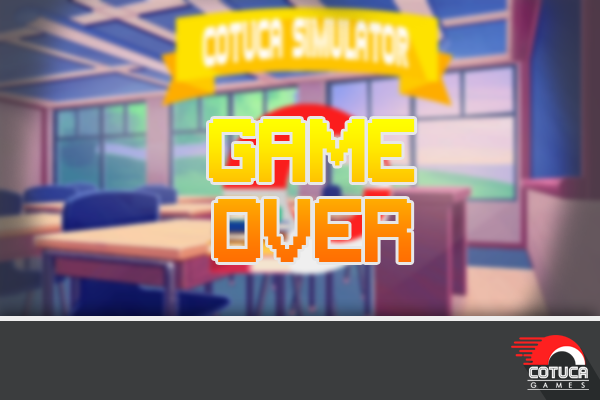
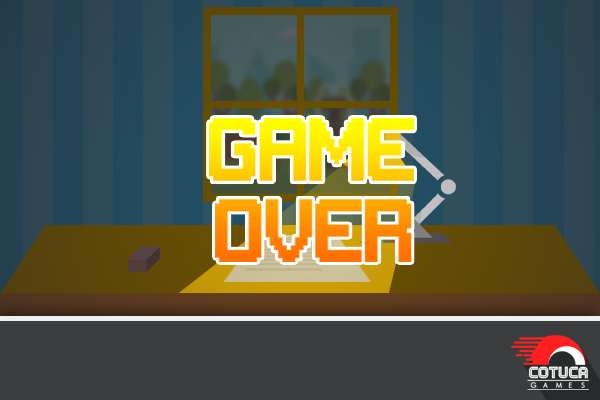
Cotuca Simulator v2.0
- Alteração no Design;
- Itens adicionados (lápis, trabalho surpresa, dp);
- Removida a permissão de selecionar textos do usuário (caixa azul);

diff --git a/css/cotuca-simulator.css b/css/cotuca-simulator.css
@@ -1,79 +1,113 @@
-	#Nivel{
-		position    : absolute;
-		top         :10px; 
-		left        : 195px; 
-		font-family : Century Gothic; 
-		font-size   : 18pt;
-	}
+@font-face{
+	font-family : 'Gameplay'; 
+	src         : url('../fonts/Gameplay.ttf');
+}
 
-	#btnEstudar{
-		width            : 200px; 
-		height           : 50px; 
-		position         : absolute; 
-		top              : 80px; 
-		left             : 200px;
-		border-radius    : 25px;
-		font-family      : Century Gothic;
-		font-size        : 18pt;
-		background-image : linear-gradient(black, #2f2f2f);
-		border-style     : none;
-		color            : white;   
-	}
+#Nivel{
+	position    : absolute;
+	top         : 0px; 
+	left        : 15px; 
+	font-family : 'Gameplay'; 
+	font-size   : 14pt;
+	color       : white; 
+	user-select : none; 
+}
 
-	#btnTrabalho{
-		border-radius    : 15px;
-		font-family      : Century Gothic;
-		font-size        : 10pt;
-		background-image : linear-gradient(#920303, #c93131);
-		border-style     : none;
-		color            : white;   
-		visibility       : hidden; 
-		width            : 80px; 
-		height           : 50px; 
-		position         : absolute;
-	}
+#btnEstudar{
+	width            : 50px; 
+	height           : 200px; 
+	position         : absolute; 
+	top              : 135px; 
+	left             : 280px;
+	font-family      : Century Gothic;
+	font-size        : 18pt;
+	border-style     : none;
+	color            : white;  
+	outline          : none;
+	transform        : rotate(20deg);
+	user-select      : none;    
+}
 
-	#myProgress{
-		border-radius    : 25px;
-		width            : 500px; 
-		position         : absolute; 
-		top              : 320px; 
-		left             : 50px; 
-		background-color : grey;   
-	}
+#btnEstudar:hover{
+	animation                 : shake 2s;
+    animation-iteration-count : infinite;
+    cursor                    : pointer;
+}
 
-	#barra{
-		border-radius    : 25px; 
-		background-image : linear-gradient(#36900a, #6de334);
-		height           : 50px; 
-		width            : 0%; 
-	}
+#btnTrabalho{
+	border-style     : none;
+	color            : white;   
+	visibility       : hidden; 
+	width            : 90px; 
+	height           : 120px; 
+	position         : absolute;  
+	outline          : none;
+	user-select      : none; 
+}
 
-	#Prova{
-		font-family : Century Gothic; 
-		position    : absolute; 
-		top         : 250px; 
-		left        : 50px;
-	}
+#btnTrabalho:hover{
+	transform  : scale(1.025);
+	cursor     : pointer;   
+}
 
-	#PDf{
-		font-family : Century Gothic; 
-		position    : absolute; 
-		top         : 270px; 
-		left        : 50px;
-	}
+#myProgress{
+	border-radius    : 25px;
+	width            : 500px; 
+	position         : absolute; 
+	top              : 65px; 
+	left             : 50px; 
+	background-color : grey;   
+}
 
-	#btnDp, #btnDp2, #btnDp3{
-		border-radius : 15px;
-		font-family   : Century Gothic;
-		border-style  : none;   
-		visibility    : hidden; 
-		width         : 40px; 
-		height        : 30px; 
-		position      : absolute;
-	}
+#barra{
+	border-radius    : 25px; 
+	background-image : linear-gradient(#36900a, #6de334);
+	height           : 25px; 
+	width            : 0%; 
+}
 
-	#btnEstudar:hover,
-	#btnTrabalho:hover{
-		transform : scale(1.05); 
-	}
+#Prova{
+	font-family : 'Gameplay';
+	font-size   : 8pt;
+	font-weight : bold; 
+	color       : white;  
+	position    : absolute; 
+	top         : 10px; 
+	right       : 15px;
+	user-select : none; 
+}
+
+#PDf{
+	font-family : 'Gameplay';
+	font-size   : 10pt;
+	font-weight : bold; 
+	color       : white;  
+	position    : absolute; 
+	top         : 25px; 
+	right       : 15px;
+	user-select : none; 
+}
+
+#btnDp, #btnDp2, #btnDp3{
+	border-style  : none;   
+	visibility    : hidden; 
+	width         : 60px; 
+	height        : 80px; 
+	position      : absolute;  
+	outline       : none;
+	user-select   : none; 
+}
+
+@keyframes shake {
+    0%   { transform: translate(1px, 1px) rotate(0deg); }
+    10%  { transform: translate(-1px, -2px) rotate(-1deg); }
+    20%  { transform: translate(-3px, 0px) rotate(1deg); }
+    30%  { transform: translate(3px, 2px) rotate(0deg); }
+    40%  { transform: translate(1px, -1px) rotate(1deg); }
+    50%  { transform: translate(-1px, 2px) rotate(-1deg); }
+    60%  { transform: translate(-3px, 1px) rotate(0deg); }
+    70%  { transform: translate(3px, 1px) rotate(-1deg); }
+    80%  { transform: translate(-1px, -1px) rotate(1deg); }
+    90%  { transform: translate(1px, 2px) rotate(0deg); }
+    100% { transform: translate(1px, -2px) rotate(-1deg); }
+}

diff --git a/js/CotucaSimulator.js b/js/CotucaSimulator.js
@@ -73,16 +73,16 @@ function aleatorizador()
 	df = df + 5 + nEstudo + dfBonus;
 
 	var m = Math.floor((Math.random() * 5) + 1);
-	var materia = "Próxima prova: ";
+	var materia = "Proxima prova: ";
 
 	switch(m)
 	{
 		case 1:
-			materia += "Técnica de Programação";
+			materia += "Tecnica de Programacao";
 			break;
 
 		case 2:
-			materia += "Desenvolvimento para Internet";
+			materia += "Desenvolvimento para WEB";
 			break;
 
 		case 3:
@@ -94,7 +94,7 @@ function aleatorizador()
 			break;
 
 		case 5:
-			materia += "Gestão Empresarial";
+			materia += "Gestao Empresarial";
 			break;
 	}
 
@@ -162,7 +162,7 @@ function atualizarTela()
 {
 	perderFoco();
 
-	document.getElementById("Nivel").innerHTML = "Nível de Estudo: " + nEstudo;
+	document.getElementById("Nivel").innerHTML = "Nivel de Estudo: " + nEstudo;
 }
 
 function fimTempo()
@@ -189,14 +189,14 @@ function desbloquear()
 	if(bloqueado == 0)
 	{
 		var btn1 = document.getElementById("btnEstudar");
-		btn1.disabled = false;
+		btn1.style.visibility = "visible";
 	}
 }
 
 function nTrabalho()
 {
 	var btn1 = document.getElementById("btnEstudar");
-		btn1.disabled = true;
+		btn1.style.visibility = "hidden";
 	bloqueado++;
 
 	trabCliques = 0;
@@ -240,7 +240,7 @@ function cliqueTrab()
 function nDP()
 {
 	var btn1 = document.getElementById("btnEstudar");
-		btn1.disabled = true;
+		btn1.style.visibility = "hidden";
 	bloqueado++;
 
 	dpCliques = 0;
@@ -367,7 +367,7 @@ function cliqueIniciar()
 	sumir(false);
 	desabilitar(false);
 	var v1 = document.getElementById("bordaJogo");
-	v1.style.backgroundImage = null;
+	v1.style.backgroundImage = "url('./img/jogos/cotuca-simulator/3.png')";
 	v1 = document.getElementById("btnIniciar");
 	v1.style.visibility = "hidden";
 	v1.disabled = true;

diff --git a/cotuca-games-simulator.html b/cotuca-games-simulator.html
@@ -29,9 +29,9 @@
 
         <center>
             <div id="bordaJogo">
-                <p id="Nivel">Nível de Estudo: 0</p>
-            
-                <button id="btnEstudar" onclick="nEstudo++; atualizarTela();">Estudar</button>
+                <p id="Nivel">Nivel de Estudo: 0</p>
+
+                <image id="btnEstudar" onclick="nEstudo++; atualizarTela();" src="./img/jogos/cotuca-simulator/lapis.png">
                 
                 <p id="Prova"></p>
                 <p id="PDf"></p>
@@ -40,11 +40,11 @@
                     <div id="barra"></div>
                 </div>
                 
-                <button id="btnTrabalho" onclick="cliqueTrab();" disabled="true">Trabalho <br> Surpresa</button>
-    
-                <button id="btnDp" onclick="cliqueDp();" disabled="true">DP</button>
-                <button id="btnDp2" onclick="cliqueFalsaDp(2);" disabled="true">DP</button>
-                <button id="btnDp3" onclick="cliqueFalsaDp(3);" disabled="true">DP</button>
+                <img id="btnTrabalho" onclick="cliqueTrab();" src="./img/jogos/cotuca-simulator/trabalho-surpresa.png">
+
+                <img id="btnDp" onclick="cliqueDp();" src="./img/jogos/cotuca-simulator/dp.png">
+                <img id="btnDp2" onclick="cliqueFalsaDp(2);" src="./img/jogos/cotuca-simulator/dp.png">
+                <img id="btnDp3" onclick="cliqueFalsaDp(3);" src="./img/jogos/cotuca-simulator/dp.png">
     
                 <button id="a" style="visibility: hidden;"></button>
     

diff --git a/css/estilo-jogos-geral.css b/css/estilo-jogos-geral.css
@@ -49,6 +49,7 @@
 		position         : absolute; 
 		top              : 340px; 
 		left             : 215px;
+		outline          : none; 
 	}
 
 	#btnIniciar:hover, 
